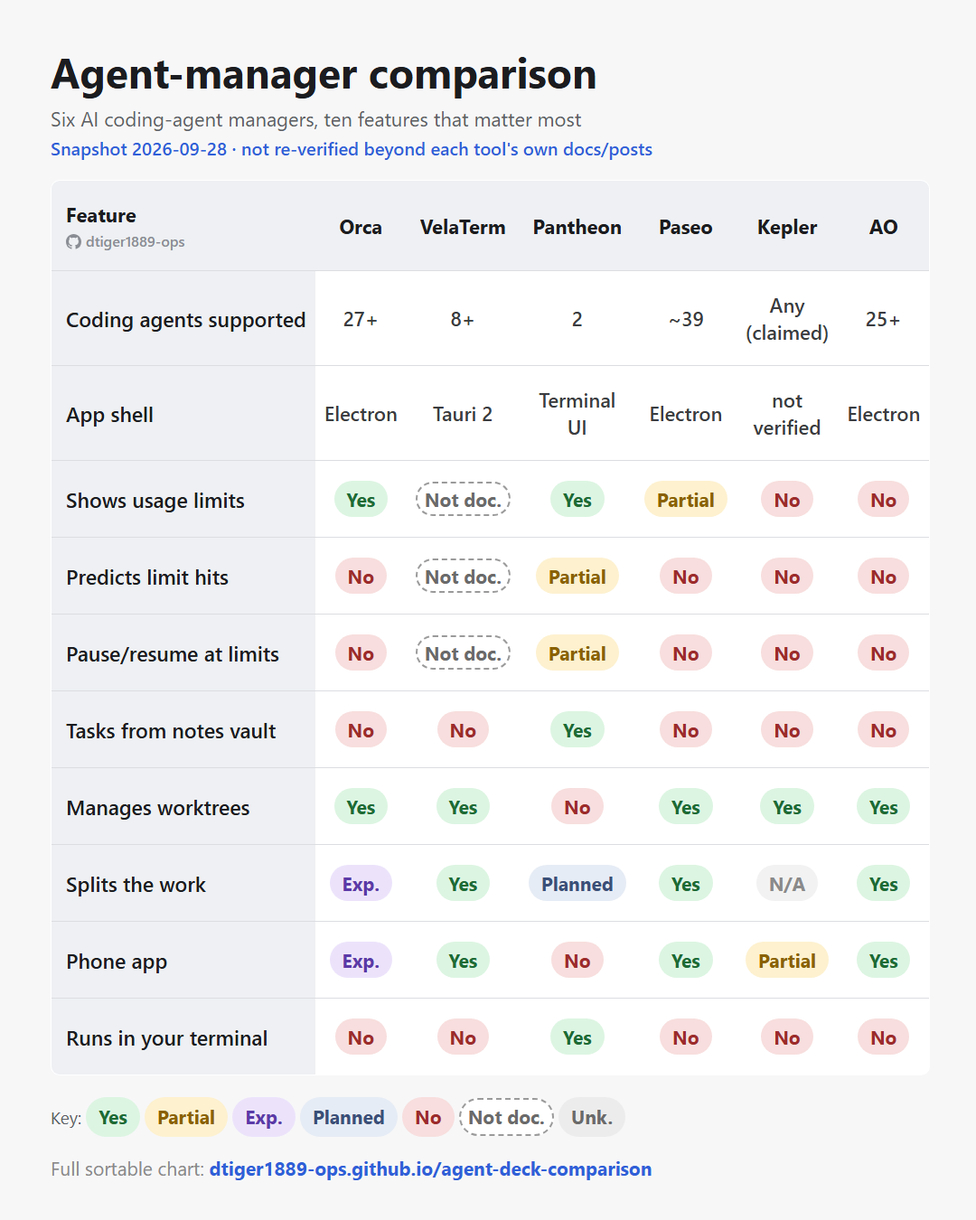
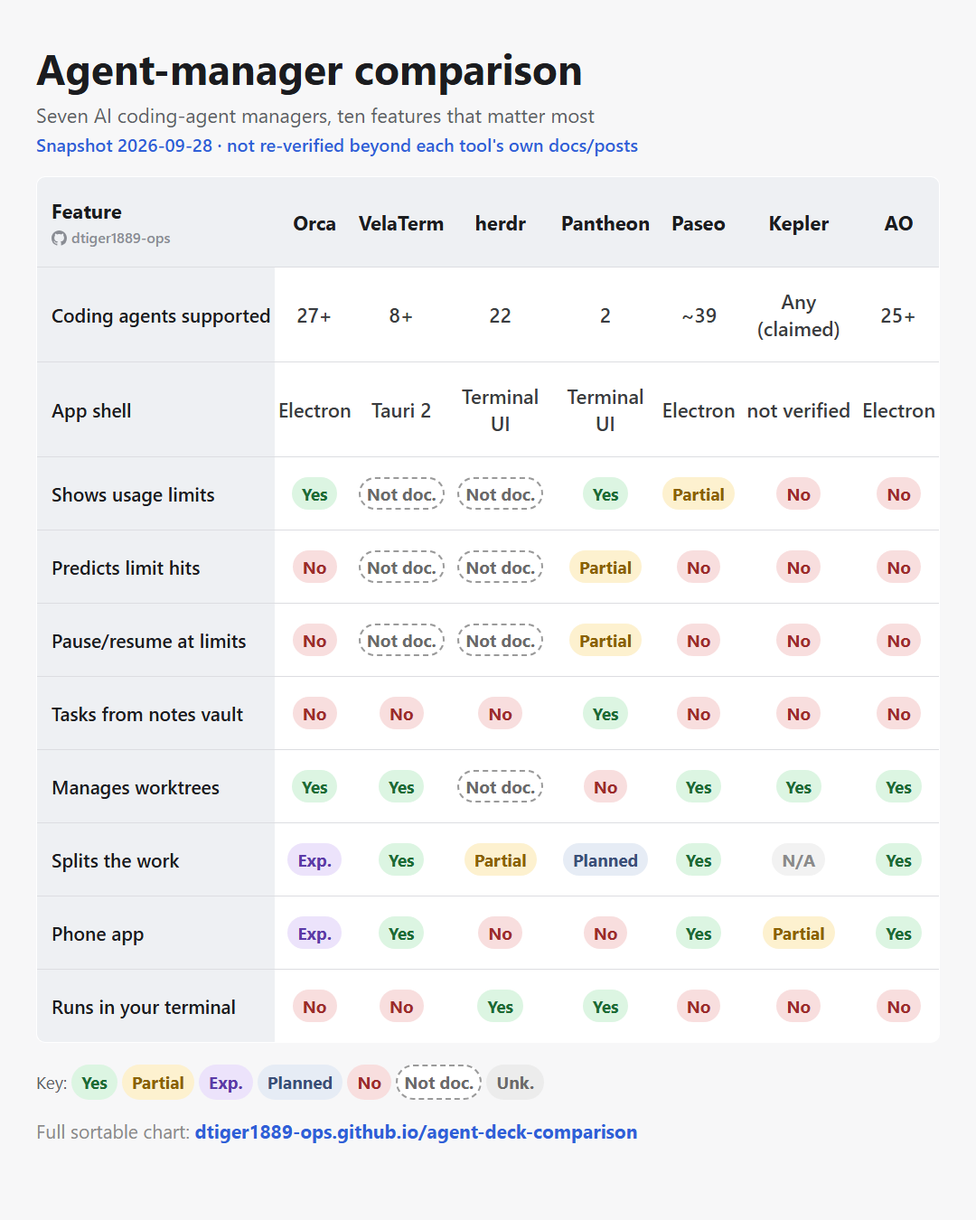
herdr column (README, v0.9.1 release, herdr.dev, integrations docs); main set is now seven; LinkedIn image fits seven columns

diff --git a/assets/linkedin.html b/assets/linkedin.html
@@ -6,17 +6,17 @@
     margin: 0; width: 1080px; height: 1350px;
     font-family: -apple-system, "Segoe UI", Roboto, Arial, sans-serif;
     background: #f7f7f8; color: #1b1c1f;
-    padding: 48px 56px;
+    padding: 44px 40px;
   }
   h1 { font-size: 46px; margin: 0 0 6px; }
   .sub { font-size: 22px; color: #5c5f66; margin: 0 0 4px; }
   .snap { font-size: 20px; color: #2f5fd8; font-weight: 600; margin: 0 0 22px; }
   table { border-collapse: collapse; width: 100%; background: #fff; border: 1px solid #dcdde1; border-radius: 10px; overflow: hidden; }
-  th, td { padding: 22px 10px; font-size: 24px; text-align: center; border-bottom: 1px solid #dcdde1; }
+  th, td { padding: 22px 4px; font-size: 22px; text-align: center; border-bottom: 1px solid #dcdde1; }
   th { background: #eef0f3; font-size: 22px; }
-  tbody th { text-align: left; font-size: 23px; font-weight: 600; white-space: nowrap; }
+  tbody th { text-align: left; font-size: 21px; font-weight: 600; white-space: nowrap; }
   td:first-child, th:first-child { text-align: left; padding-left: 16px; width: 260px; }
-  .b { white-space: nowrap; display: inline-block; padding: 6px 14px; border-radius: 999px; font-size: 21px; font-weight: 700; }
+  .b { white-space: nowrap; display: inline-block; padding: 5px 11px; border-radius: 999px; font-size: 19px; font-weight: 700; }
   td.plain { font-size: 22px; color: #3a3c40; font-weight: 600; }
   .key { margin-top: 24px; font-size: 19px; color: #5c5f66; line-height: 1.5; }
   .wm { display: block; margin-top: 4px; font-size: 16px; font-weight: 500; color: #8a8d94; white-space: nowrap; }
@@ -25,18 +25,18 @@
 </style></head>
 <body>
   <h1>Agent-manager comparison</h1>
-  <p class="sub">Six AI coding-agent managers, ten features that matter most</p>
+  <p class="sub">Seven AI coding-agent managers, ten features that matter most</p>
   <p class="snap">Snapshot 2026-09-28 &middot; not re-verified beyond each tool's own docs/posts</p>
   <table>
-    <thead><tr><th>Feature<span class="wm"><svg class="gh" viewBox="0 0 16 16" width="17" height="17" aria-hidden="true"><path fill="currentColor" d="M8 0c4.42 0 8 3.58 8 8a8.013 8.013 0 0 1-5.45 7.59c-.4.08-.55-.17-.55-.38 0-.27.01-1.13.01-2.2 0-.75-.25-1.23-.54-1.48 1.78-.2 3.65-.88 3.65-3.95 0-.88-.31-1.59-.82-2.15.08-.2.36-1.02-.08-2.12 0 0-.67-.22-2.2.82-.64-.18-1.32-.27-2-.27-.68 0-1.36.09-2 .27-1.53-1.03-2.2-.82-2.2-.82-.44 1.1-.16 1.92-.08 2.12-.51.56-.82 1.28-.82 2.15 0 3.06 1.86 3.75 3.64 3.95-.23.2-.44.55-.51 1.07-.46.21-1.61.55-2.33-.66-.15-.24-.6-.83-1.23-.82-.67.01-.27.38.01.53.34.19.73.9.82 1.13.16.45.68 1.31 2.69.94 0 .67.01 1.3.01 1.49 0 .21-.15.45-.55.37A7.995 7.995 0 0 1 0 8c0-4.42 3.58-8 8-8Z"/></svg>dtiger1889-ops</span></th><th>Orca</th><th>VelaTerm</th><th>Pantheon</th><th>Paseo</th><th>Kepler</th><th>AO</th></tr></thead>
-    <tbody><tr><th>Coding agents supported</th><td class="plain">27+</td><td class="plain">8+</td><td class="plain">2</td><td class="plain">~39</td><td class="plain">Any (claimed)</td><td class="plain">25+</td></tr><tr><th>App shell</th><td class="plain">Electron</td><td class="plain">Tauri 2</td><td class="plain">Terminal UI</td><td class="plain">Electron</td><td class="plain">not verified</td><td class="plain">Electron</td></tr><tr><th>Shows usage limits</th><td><span class="b" style="background:#dcf5e2;color:#1d6b34">Yes</span></td><td><span class="b" style="background:#ffffff;color:#6a6a6a;border:2px dashed #9a9a9a;padding:3px 8px">Not doc.</span></td><td><span class="b" style="background:#dcf5e2;color:#1d6b34">Yes</span></td><td><span class="b" style="background:#fdf1cf;color:#8a6100">Partial</span></td><td><span class="b" style="background:#f8dede;color:#9c2b2b">No</span></td><td><span class="b" style="background:#f8dede;color:#9c2b2b">No</span></td></tr><tr><th>Predicts limit hits</th><td><span class="b" style="background:#f8dede;color:#9c2b2b">No</span></td><td><span class="b" style="background:#ffffff;color:#6a6a6a;border:2px dashed #9a9a9a;padding:3px 8px">Not doc.</span></td><td><span class="b" style="background:#fdf1cf;color:#8a6100">Partial</span></td><td><span class="b" style="background:#f8dede;color:#9c2b2b">No</span></td><td><span class="b" style="background:#f8dede;color:#9c2b2b">No</span></td><td><span class="b" style="background:#f8dede;color:#9c2b2b">No</span></td></tr><tr><th>Pause/resume at limits</th><td><span class="b" style="background:#f8dede;color:#9c2b2b">No</span></td><td><span class="b" style="background:#ffffff;color:#6a6a6a;border:2px dashed #9a9a9a;padding:3px 8px">Not doc.</span></td><td><span class="b" style="background:#fdf1cf;color:#8a6100">Partial</span></td><td><span class="b" style="background:#f8dede;color:#9c2b2b">No</span></td><td><span class="b" style="background:#f8dede;color:#9c2b2b">No</span></td><td><span class="b" style="background:#f8dede;color:#9c2b2b">No</span></td></tr><tr><th>Tasks from notes vault</th><td><span class="b" style="background:#f8dede;color:#9c2b2b">No</span></td><td><span class="b" style="background:#f8dede;color:#9c2b2b">No</span></td><td><span class="b" style="background:#dcf5e2;color:#1d6b34">Yes</span></td><td><span class="b" style="background:#f8dede;color:#9c2b2b">No</span></td><td><span class="b" style="background:#f8dede;color:#9c2b2b">No</span></td><td><span class="b" style="background:#f8dede;color:#9c2b2b">No</span></td></tr><tr><th>Manages worktrees</th><td><span class="b" style="background:#dcf5e2;color:#1d6b34">Yes</span></td><td><span class="b" style="background:#dcf5e2;color:#1d6b34">Yes</span></td><td><span class="b" style="background:#f8dede;color:#9c2b2b">No</span></td><td><span class="b" style="background:#dcf5e2;color:#1d6b34">Yes</span></td><td><span class="b" style="background:#dcf5e2;color:#1d6b34">Yes</span></td><td><span class="b" style="background:#dcf5e2;color:#1d6b34">Yes</span></td></tr><tr><th>Splits the work</th><td><span class="b" style="background:#ece3fb;color:#5b3aa8">Exp.</span></td><td><span class="b" style="background:#dcf5e2;color:#1d6b34">Yes</span></td><td><span class="b" style="background:#e6ecf5;color:#3a4f78">Planned</span></td><td><span class="b" style="background:#dcf5e2;color:#1d6b34">Yes</span></td><td><span class="b" style="background:#f2f2f2;color:#8a8a8a">N/A</span></td><td><span class="b" style="background:#dcf5e2;color:#1d6b34">Yes</span></td></tr><tr><th>Phone app</th><td><span class="b" style="background:#ece3fb;color:#5b3aa8">Exp.</span></td><td><span class="b" style="background:#dcf5e2;color:#1d6b34">Yes</span></td><td><span class="b" style="background:#f8dede;color:#9c2b2b">No</span></td><td><span class="b" style="background:#dcf5e2;color:#1d6b34">Yes</span></td><td><span class="b" style="background:#fdf1cf;color:#8a6100">Partial</span></td><td><span class="b" style="background:#dcf5e2;color:#1d6b34">Yes</span></td></tr><tr><th>Runs in your terminal</th><td><span class="b" style="background:#f8dede;color:#9c2b2b">No</span></td><td><span class="b" style="background:#f8dede;color:#9c2b2b">No</span></td><td><span class="b" style="background:#dcf5e2;color:#1d6b34">Yes</span></td><td><span class="b" style="background:#f8dede;color:#9c2b2b">No</span></td><td><span class="b" style="background:#f8dede;color:#9c2b2b">No</span></td><td><span class="b" style="background:#f8dede;color:#9c2b2b">No</span></td></tr></tbody>
+    <thead><tr><th>Feature<span class="wm"><svg class="gh" viewBox="0 0 16 16" width="17" height="17" aria-hidden="true"><path fill="currentColor" d="M8 0c4.42 0 8 3.58 8 8a8.013 8.013 0 0 1-5.45 7.59c-.4.08-.55-.17-.55-.38 0-.27.01-1.13.01-2.2 0-.75-.25-1.23-.54-1.48 1.78-.2 3.65-.88 3.65-3.95 0-.88-.31-1.59-.82-2.15.08-.2.36-1.02-.08-2.12 0 0-.67-.22-2.2.82-.64-.18-1.32-.27-2-.27-.68 0-1.36.09-2 .27-1.53-1.03-2.2-.82-2.2-.82-.44 1.1-.16 1.92-.08 2.12-.51.56-.82 1.28-.82 2.15 0 3.06 1.86 3.75 3.64 3.95-.23.2-.44.55-.51 1.07-.46.21-1.61.55-2.33-.66-.15-.24-.6-.83-1.23-.82-.67.01-.27.38.01.53.34.19.73.9.82 1.13.16.45.68 1.31 2.69.94 0 .67.01 1.3.01 1.49 0 .21-.15.45-.55.37A7.995 7.995 0 0 1 0 8c0-4.42 3.58-8 8-8Z"/></svg>dtiger1889-ops</span></th><th>Orca</th><th>VelaTerm</th><th>herdr</th><th>Pantheon</th><th>Paseo</th><th>Kepler</th><th>AO</th></tr></thead>
+    <tbody><tr><th>Coding agents supported</th><td class="plain">27+</td><td class="plain">8+</td><td class="plain">22</td><td class="plain">2</td><td class="plain">~39</td><td class="plain">Any (claimed)</td><td class="plain">25+</td></tr><tr><th>App shell</th><td class="plain">Electron</td><td class="plain">Tauri 2</td><td class="plain">Terminal UI</td><td class="plain">Terminal UI</td><td class="plain">Electron</td><td class="plain">not verified</td><td class="plain">Electron</td></tr><tr><th>Shows usage limits</th><td><span class="b" style="background:#dcf5e2;color:#1d6b34">Yes</span></td><td><span class="b" style="background:#ffffff;color:#6a6a6a;border:2px dashed #9a9a9a;padding:3px 7px">Not doc.</span></td><td><span class="b" style="background:#ffffff;color:#6a6a6a;border:2px dashed #9a9a9a;padding:3px 7px">Not doc.</span></td><td><span class="b" style="background:#dcf5e2;color:#1d6b34">Yes</span></td><td><span class="b" style="background:#fdf1cf;color:#8a6100">Partial</span></td><td><span class="b" style="background:#f8dede;color:#9c2b2b">No</span></td><td><span class="b" style="background:#f8dede;color:#9c2b2b">No</span></td></tr><tr><th>Predicts limit hits</th><td><span class="b" style="background:#f8dede;color:#9c2b2b">No</span></td><td><span class="b" style="background:#ffffff;color:#6a6a6a;border:2px dashed #9a9a9a;padding:3px 7px">Not doc.</span></td><td><span class="b" style="background:#ffffff;color:#6a6a6a;border:2px dashed #9a9a9a;padding:3px 7px">Not doc.</span></td><td><span class="b" style="background:#fdf1cf;color:#8a6100">Partial</span></td><td><span class="b" style="background:#f8dede;color:#9c2b2b">No</span></td><td><span class="b" style="background:#f8dede;color:#9c2b2b">No</span></td><td><span class="b" style="background:#f8dede;color:#9c2b2b">No</span></td></tr><tr><th>Pause/resume at limits</th><td><span class="b" style="background:#f8dede;color:#9c2b2b">No</span></td><td><span class="b" style="background:#ffffff;color:#6a6a6a;border:2px dashed #9a9a9a;padding:3px 7px">Not doc.</span></td><td><span class="b" style="background:#ffffff;color:#6a6a6a;border:2px dashed #9a9a9a;padding:3px 7px">Not doc.</span></td><td><span class="b" style="background:#fdf1cf;color:#8a6100">Partial</span></td><td><span class="b" style="background:#f8dede;color:#9c2b2b">No</span></td><td><span class="b" style="background:#f8dede;color:#9c2b2b">No</span></td><td><span class="b" style="background:#f8dede;color:#9c2b2b">No</span></td></tr><tr><th>Tasks from notes vault</th><td><span class="b" style="background:#f8dede;color:#9c2b2b">No</span></td><td><span class="b" style="background:#f8dede;color:#9c2b2b">No</span></td><td><span class="b" style="background:#f8dede;color:#9c2b2b">No</span></td><td><span class="b" style="background:#dcf5e2;color:#1d6b34">Yes</span></td><td><span class="b" style="background:#f8dede;color:#9c2b2b">No</span></td><td><span class="b" style="background:#f8dede;color:#9c2b2b">No</span></td><td><span class="b" style="background:#f8dede;color:#9c2b2b">No</span></td></tr><tr><th>Manages worktrees</th><td><span class="b" style="background:#dcf5e2;color:#1d6b34">Yes</span></td><td><span class="b" style="background:#dcf5e2;color:#1d6b34">Yes</span></td><td><span class="b" style="background:#ffffff;color:#6a6a6a;border:2px dashed #9a9a9a;padding:3px 7px">Not doc.</span></td><td><span class="b" style="background:#f8dede;color:#9c2b2b">No</span></td><td><span class="b" style="background:#dcf5e2;color:#1d6b34">Yes</span></td><td><span class="b" style="background:#dcf5e2;color:#1d6b34">Yes</span></td><td><span class="b" style="background:#dcf5e2;color:#1d6b34">Yes</span></td></tr><tr><th>Splits the work</th><td><span class="b" style="background:#ece3fb;color:#5b3aa8">Exp.</span></td><td><span class="b" style="background:#dcf5e2;color:#1d6b34">Yes</span></td><td><span class="b" style="background:#fdf1cf;color:#8a6100">Partial</span></td><td><span class="b" style="background:#e6ecf5;color:#3a4f78">Planned</span></td><td><span class="b" style="background:#dcf5e2;color:#1d6b34">Yes</span></td><td><span class="b" style="background:#f2f2f2;color:#8a8a8a">N/A</span></td><td><span class="b" style="background:#dcf5e2;color:#1d6b34">Yes</span></td></tr><tr><th>Phone app</th><td><span class="b" style="background:#ece3fb;color:#5b3aa8">Exp.</span></td><td><span class="b" style="background:#dcf5e2;color:#1d6b34">Yes</span></td><td><span class="b" style="background:#f8dede;color:#9c2b2b">No</span></td><td><span class="b" style="background:#f8dede;color:#9c2b2b">No</span></td><td><span class="b" style="background:#dcf5e2;color:#1d6b34">Yes</span></td><td><span class="b" style="background:#fdf1cf;color:#8a6100">Partial</span></td><td><span class="b" style="background:#dcf5e2;color:#1d6b34">Yes</span></td></tr><tr><th>Runs in your terminal</th><td><span class="b" style="background:#f8dede;color:#9c2b2b">No</span></td><td><span class="b" style="background:#f8dede;color:#9c2b2b">No</span></td><td><span class="b" style="background:#dcf5e2;color:#1d6b34">Yes</span></td><td><span class="b" style="background:#dcf5e2;color:#1d6b34">Yes</span></td><td><span class="b" style="background:#f8dede;color:#9c2b2b">No</span></td><td><span class="b" style="background:#f8dede;color:#9c2b2b">No</span></td><td><span class="b" style="background:#f8dede;color:#9c2b2b">No</span></td></tr></tbody>
   </table>
   <p class="key">Key: <span class="b" style="background:#dcf5e2;color:#1d6b34">Yes</span>
   <span class="b" style="background:#fdf1cf;color:#8a6100">Partial</span>
   <span class="b" style="background:#ece3fb;color:#5b3aa8">Exp.</span>
   <span class="b" style="background:#e6ecf5;color:#3a4f78">Planned</span>
   <span class="b" style="background:#f8dede;color:#9c2b2b">No</span>
-  <span class="b" style="background:#ffffff;color:#6a6a6a;border:2px dashed #9a9a9a;padding:3px 8px">Not doc.</span>
+  <span class="b" style="background:#ffffff;color:#6a6a6a;border:2px dashed #9a9a9a;padding:3px 7px">Not doc.</span>
   <span class="b" style="background:#ececec;color:#6a6a6a">Unk.</span></p>
   <p class="footer">Full sortable chart: <b style="color:#2f5fd8">dtiger1889-ops.github.io/agent-deck-comparison</b></p>
 </body></html>

diff --git a/index.html b/index.html
@@ -4,10 +4,10 @@
 <meta charset="UTF-8">
 <meta name="viewport" content="width=device-width, initial-scale=1">
 <title>Agent-manager comparison</title>
-<meta name="description" content="Sortable feature comparison of AI coding-agent managers: Orca, VelaTerm, Pantheon, Paseo, Kepler, AO and more.">
+<meta name="description" content="Sortable feature comparison of AI coding-agent managers: Orca, VelaTerm, herdr, Pantheon, Paseo, Kepler, AO and more.">
 <meta property="og:type" content="website">
 <meta property="og:title" content="Agent-manager comparison">
-<meta property="og:description" content="Sortable feature comparison of AI coding-agent managers: Orca, VelaTerm, Pantheon, Paseo, Kepler, AO and more.">
+<meta property="og:description" content="Sortable feature comparison of AI coding-agent managers: Orca, VelaTerm, herdr, Pantheon, Paseo, Kepler, AO and more.">
 <meta property="og:url" content="https://dtiger1889-ops.github.io/agent-deck-comparison/">
 <meta property="og:image" content="https://dtiger1889-ops.github.io/agent-deck-comparison/assets/screenshot.png">
 <meta property="og:image:width" content="1400">
@@ -255,7 +255,7 @@ let sortDir = 1;
 let bytoolSortKey = "name";
 let bytoolSortDir = 1;
 let currentView = "matrix";
-const DEFAULT_TOOLS = ["Orca", "VelaTerm", "Pantheon", "Paseo", "GitKraken Kepler", "Agent Orchestrator (AO)"];
+const DEFAULT_TOOLS = ["Orca", "VelaTerm", "herdr", "Pantheon", "Paseo", "GitKraken Kepler", "Agent Orchestrator (AO)"];
 let shownTools = null;            // tool names picked in the Tools chips
 let hiddenSections = new Set();   // sections switched off in the Sections chips
 let collapsed = new Set();        // sections collapsed to their heading
@@ -582,7 +582,7 @@ function renderChips() {
   const allNames = new Set(DATA.tools.map(t => t.name));
   const six = new Set(DEFAULT_TOOLS.filter(n => allNames.has(n)));
   tc.appendChild(seg([
-    { label: "Main six", on: sameSet(shownTools, six), onClick: () => { shownTools = new Set(six); sortToolIdx = null; renderChips(); renderAll(); } },
+    { label: "Main " + six.size, on: sameSet(shownTools, six), onClick: () => { shownTools = new Set(six); sortToolIdx = null; renderChips(); renderAll(); } },
     { label: "All " + allNames.size, on: sameSet(shownTools, allNames), onClick: () => { shownTools = new Set(allNames); sortToolIdx = null; renderChips(); renderAll(); } },
   ]));
   tc.appendChild(sep());

diff --git a/tools/build_data.py b/tools/build_data.py
@@ -158,6 +158,53 @@ velaterm = {
 }
 
 # ---- Pantheon ----
+herdr = {
+    "name": "herdr", "url": "https://herdr.dev", "category": "agent manager",
+    "where_agents_run": "your machine + saved SSH machines, in one window",
+    "license": "Apache-2.0, free", "checked_on": "2026-09-28 (repo README, release assets, herdr.dev and its integrations docs)",
+    "source_note": "Checked against its own README, latest release (v0.9.1), herdr.dev and the integrations docs. Not installed or run here.",
+    "is_authors_own": False,
+    "features": {
+        "multi_provider_supervision": c("yes", "Claude Code, Codex, Cursor, opencode, Grok and more; it owns their terminals rather than wrapping them"),
+        "harness_count": c("info", "22 detected out of the box"),
+        "needs_you_signal": c("partial", "Every pane marked working, blocked or idle, read from the screen (hooks are used only to restore sessions)"),
+        "approve_deny_prompt": c("no", "Marks the pane blocked; you answer in the pane itself"),
+        "conversation_gui_view": c("no", "Terminal panes only"),
+        "real_terminal": c("yes", "Every agent runs in its own real pane"),
+        "session_organization": c("yes", "Workspaces and split panes, with one agent list across local and SSH machines"),
+        "prompt_scratchpad": c("undocumented", "Not mentioned in its docs"),
+        "saved_prompt_library": c("undocumented", "Not mentioned in its docs"),
+        "builtin_editors_browser": c("no", "Runs your tools in panes; no editor or browser of its own"),
+        "appearance_control": c("partial", "Uses the terminal you already have; its own configuration file"),
+        "usage_hud": c("undocumented", "Homepage demo shows context use and a rate-limit line; no documented usage-window view"),
+        "burn_rate_forecast": c("undocumented", "Not mentioned in its docs"),
+        "limit_governor": c("undocumented", "Not mentioned in its docs"),
+        "account_hotswap": c("undocumented", "Not mentioned in its docs"),
+        "vault_task_source": c("no", "No task source"),
+        "issue_tracker_pipeline": c("undocumented", "Not mentioned in its docs"),
+        "worktree_management": c("undocumented", "Not mentioned in its docs"),
+        "planner_orchestrator": c("partial", "No planner of its own, but agents can spawn panes and prompt each other through its CLI and socket API"),
+        "agent_to_agent_messaging": c("yes", "Agents spawn panes, prompt each other and wait until another agent is really blocked (socket API + agent skill)"),
+        "cross_provider_delegation": c("yes", "All agents in one list, local and remote"),
+        "always_on_assistant": c("no", "None"),
+        "knowledge_base": c("no", "None"),
+        "native_mobile_app": c("no", "None (a separate community macOS console, herdrm, exists)"),
+        "phone_no_new_app": c("yes", "Any SSH app reattaches to the background server"),
+        "remote_ssh": c("yes", "Saved SSH machines sit beside local ones with independent reconnects; a hosted option is announced"),
+        "voice_input": c("undocumented", "Not mentioned in its docs"),
+        "app_shell": c("info", "Terminal UI: one Rust binary, no Electron"),
+        "languages": c("info", "Rust ~93%, Python ~3%"),
+        "background_process": c("info", "Yes: a background server keeps terminals running after you close the client or lose SSH"),
+        "download_size": c("info", "v0.9.1: 9 MB Windows zip, 20-22 MB macOS, 23-25 MB Linux"),
+        "ram_vs_claude_desktop": c("info", "Much lighter"),
+        "runs_in_terminal": c("yes", "Runs in whatever terminal you already use"),
+        "license_cost": c("info", "Apache-2.0, free, uses your own subscriptions"),
+        "extensibility": c("yes", "Plugin marketplace plus a CLI and socket API"),
+        "teams_multiuser": c("undocumented", "Not mentioned in its docs"),
+        "stability_maturity": c("info", "v0.9.1, ~41k GitHub stars, fast-moving; Windows build is in beta"),
+    },
+}
+
 pantheon = {
     "name": "Pantheon", "url": "https://github.com/dtiger1889-ops/pantheon", "category": "agent manager",
     "where_agents_run": "your machine (terminal-native, tmux-hosted; phone reaches it over an existing SSH tunnel)",
@@ -200,7 +247,7 @@ pantheon = {
         "background_process": c("info", "Yes: a separate small Python usage-collector process alongside the Textual UI process"),
         "download_size": c("info", "No installer; runs from source (git clone + Python)"),
         "ram_vs_claude_desktop": c("info", "Much lighter"),
-        "runs_in_terminal": c("yes", "Only one in this table that runs entirely inside a terminal you already have"),
+        "runs_in_terminal": c("yes", "Runs inside the terminal you already have, under tmux"),
         "stability_maturity": c("info", "Personal, pre-release; its terminal-multiplexer server froze four times on one day (cause still open)"),
     },
 }
@@ -450,7 +497,7 @@ oyren = thin(
      "license_cost": c("info", "Commercial: hourly compute plus an optional credit wallet")},
 )
 
-TOOLS = [orca, velaterm, pantheon, paseo, kepler, ao,
+TOOLS = [orca, velaterm, herdr, pantheon, paseo, kepler, ao,
          ccmanager, opencove, wave, vibekanban, t3code, superset, conductor,
          jenny, micracode, teleclod, oyren]
 

diff --git a/tools/build_linkedin.py b/tools/build_linkedin.py
@@ -9,7 +9,7 @@ here = os.path.dirname(os.path.abspath(__file__))
 with open(os.path.join(here, "..", "data", "tools.json"), encoding="utf-8") as f:
     DATA = json.load(f)
 
-TOOL_ORDER = ["Orca", "VelaTerm", "Pantheon", "Paseo", "GitKraken Kepler", "Agent Orchestrator (AO)"]
+TOOL_ORDER = ["Orca", "VelaTerm", "herdr", "Pantheon", "Paseo", "GitKraken Kepler", "Agent Orchestrator (AO)"]
 FEATURE_ORDER = [
     "harness_count", "app_shell", "usage_hud", "burn_rate_forecast",
     "limit_governor", "vault_task_source", "worktree_management",
@@ -30,6 +30,7 @@ SHORT_LABEL = {
 SHORT_AGENTS = {
     "Orca": "27+",
     "VelaTerm": "8+",
+    "herdr": "22",
     "Pantheon": "2",
     "Paseo": "~39",
     "GitKraken Kepler": "Any (claimed)",
@@ -39,6 +40,7 @@ DISPLAY_NAME = {"Agent Orchestrator (AO)": "AO", "GitKraken Kepler": "Kepler"}
 SHORT_SHELL = {
     "Orca": "Electron",
     "VelaTerm": "Tauri 2",
+    "herdr": "Terminal UI",
     "Pantheon": "Terminal UI",
     "Paseo": "Electron",
     "GitKraken Kepler": "not verified",
@@ -63,7 +65,7 @@ features.sort(key=lambda f: FEATURE_ORDER.index(f["key"]))
 
 def badge_html(cell):
     bg, fg, label = MARK_STYLE[cell["mark"]]
-    border = ";border:2px dashed #9a9a9a;padding:3px 8px" if cell["mark"] == "undocumented" else ""
+    border = ";border:2px dashed #9a9a9a;padding:3px 7px" if cell["mark"] == "undocumented" else ""
     return f'<span class="b" style="background:{bg};color:{fg}{border}">{label}</span>'
 
 rows_html = []
@@ -89,17 +91,17 @@ html = f"""<!DOCTYPE html>
     margin: 0; width: 1080px; height: 1350px;
     font-family: -apple-system, "Segoe UI", Roboto, Arial, sans-serif;
     background: #f7f7f8; color: #1b1c1f;
-    padding: 48px 56px;
+    padding: 44px 40px;
   }}
   h1 {{ font-size: 46px; margin: 0 0 6px; }}
   .sub {{ font-size: 22px; color: #5c5f66; margin: 0 0 4px; }}
   .snap {{ font-size: 20px; color: #2f5fd8; font-weight: 600; margin: 0 0 22px; }}
   table {{ border-collapse: collapse; width: 100%; background: #fff; border: 1px solid #dcdde1; border-radius: 10px; overflow: hidden; }}
-  th, td {{ padding: 22px 10px; font-size: 24px; text-align: center; border-bottom: 1px solid #dcdde1; }}
+  th, td {{ padding: 22px 4px; font-size: 22px; text-align: center; border-bottom: 1px solid #dcdde1; }}
   th {{ background: #eef0f3; font-size: 22px; }}
-  tbody th {{ text-align: left; font-size: 23px; font-weight: 600; white-space: nowrap; }}
+  tbody th {{ text-align: left; font-size: 21px; font-weight: 600; white-space: nowrap; }}
   td:first-child, th:first-child {{ text-align: left; padding-left: 16px; width: 260px; }}
-  .b {{ white-space: nowrap; display: inline-block; padding: 6px 14px; border-radius: 999px; font-size: 21px; font-weight: 700; }}
+  .b {{ white-space: nowrap; display: inline-block; padding: 5px 11px; border-radius: 999px; font-size: 19px; font-weight: 700; }}
   td.plain {{ font-size: 22px; color: #3a3c40; font-weight: 600; }}
   .key {{ margin-top: 24px; font-size: 19px; color: #5c5f66; line-height: 1.5; }}
   .wm {{ display: block; margin-top: 4px; font-size: 16px; font-weight: 500; color: #8a8d94; white-space: nowrap; }}
@@ -108,7 +110,7 @@ html = f"""<!DOCTYPE html>
 </style></head>
 <body>
   <h1>Agent-manager comparison</h1>
-  <p class="sub">Six AI coding-agent managers, ten features that matter most</p>
+  <p class="sub">Seven AI coding-agent managers, ten features that matter most</p>
   <p class="snap">Snapshot 2026-09-28 &middot; not re-verified beyond each tool's own docs/posts</p>
   <table>
     <thead><tr><th>Feature<span class="wm"><svg class="gh" viewBox="0 0 16 16" width="17" height="17" aria-hidden="true"><path fill="currentColor" d="M8 0c4.42 0 8 3.58 8 8a8.013 8.013 0 0 1-5.45 7.59c-.4.08-.55-.17-.55-.38 0-.27.01-1.13.01-2.2 0-.75-.25-1.23-.54-1.48 1.78-.2 3.65-.88 3.65-3.95 0-.88-.31-1.59-.82-2.15.08-.2.36-1.02-.08-2.12 0 0-.67-.22-2.2.82-.64-.18-1.32-.27-2-.27-.68 0-1.36.09-2 .27-1.53-1.03-2.2-.82-2.2-.82-.44 1.1-.16 1.92-.08 2.12-.51.56-.82 1.28-.82 2.15 0 3.06 1.86 3.75 3.64 3.95-.23.2-.44.55-.51 1.07-.46.21-1.61.55-2.33-.66-.15-.24-.6-.83-1.23-.82-.67.01-.27.38.01.53.34.19.73.9.82 1.13.16.45.68 1.31 2.69.94 0 .67.01 1.3.01 1.49 0 .21-.15.45-.55.37A7.995 7.995 0 0 1 0 8c0-4.42 3.58-8 8-8Z"/></svg>dtiger1889-ops</span></th>{header_cells}</tr></thead>
@@ -119,7 +121,7 @@ html = f"""<!DOCTYPE html>
   <span class="b" style="background:#ece3fb;color:#5b3aa8">Exp.</span>
   <span class="b" style="background:#e6ecf5;color:#3a4f78">Planned</span>
   <span class="b" style="background:#f8dede;color:#9c2b2b">No</span>
-  <span class="b" style="background:#ffffff;color:#6a6a6a;border:2px dashed #9a9a9a;padding:3px 8px">Not doc.</span>
+  <span class="b" style="background:#ffffff;color:#6a6a6a;border:2px dashed #9a9a9a;padding:3px 7px">Not doc.</span>
   <span class="b" style="background:#ececec;color:#6a6a6a">Unk.</span></p>
   <p class="footer">Full sortable chart: <b style="color:#2f5fd8">dtiger1889-ops.github.io/agent-deck-comparison</b></p>
 </body></html>
